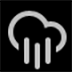
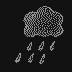
Porting to Pebble Time
- Fixing a bug with the emulator and improper handling of the '°' character
- Modification of the pictures, using the drawing made by an artist
- Porting the watchface to Pebble Time, using colors (yes, I did it)

diff --git a/src/weather.js b/src/weather.js
@@ -1,8 +1,8 @@
 // JSON Online viewer : http://jsonviewer.stack.hu/
 
 var temp_unit = 0;
-var gps = 1;
-var town = "";
+var gps = '0';
+var town = "Paris, FR";
 var owner = "";
 var dnd = 1;
 var dndperiodstart = 22;
@@ -29,7 +29,9 @@ function f_to_c (temp_f) {
 }
 
 function ask_Yahoo(where) {
-  
+  if (where === null) {
+    where ="Paris, FR";
+  }
   var yahoo_url = "https://query.yahooapis.com/v1/public/yql?q=select%20*%20from%20weather.forecast%20" + 
       "where%20woeid%20in%20%28select%20woeid%20from%20geo.places%281%29%20where%20text%3D%22" + 
       encodeURIComponent(where) + '%22%29&format=json&diagnostics=true' +
@@ -38,7 +40,7 @@ function ask_Yahoo(where) {
   xhrRequest(yahoo_url, 'GET', 
     function(responseText) {
       // responseText contains a JSON object with weather info
-      // console.log ("Yahoo said " + responseText);
+      console.log ("Yahoo said " + responseText);
       var json = JSON.parse(responseText);
 
       
@@ -53,19 +55,18 @@ function ask_Yahoo(where) {
       var temperature;
       
       if (temp_unit === 0) {
-        console.log ("°C");
-        feelslike = f_to_c(json.query.results.channel.wind.chill) + "°C";
-        temperature = f_to_c(json.query.results.channel.item.condition.temp) + "°C";
+        feelslike = f_to_c(json.query.results.channel.wind.chill);
+        temperature = f_to_c(json.query.results.channel.item.condition.temp);
       } else {
-        console.log ("°F");
-        feelslike = json.query.results.channel.wind.chill + "°F";
-        temperature = json.query.results.channel.item.condition.temp + "°F";        
+
+        feelslike = json.query.results.channel.wind.chill;
+        temperature = json.query.results.channel.item.condition.temp;        
       }
-      console.log ("where am i : " + where);
+      console.log ("where am i : " + where + " temperature : " + temperature + " Windchill : " + feelslike);
       var dictionary = {
-          "KEY_TEMPERATURE": temperature,
+          "KEY_TEMPERATURE": String(temperature),
           "KEY_CONDITIONS": parseInt(conditions),
-          "KEY_FEELSLIKE": feelslike,
+          "KEY_FEELSLIKE": String(feelslike),
           "KEY_TOWN": where,    
           "KEY_OWNER": owner,
           "KEY_DND": parseInt(dnd),
@@ -76,6 +77,7 @@ function ask_Yahoo(where) {
           "KEY_SHIFTTIME": parseInt (time_shift),
           "KEY_INVERT": parseInt (invert),
           "KEY_SECONDS": parseInt (showseconds),
+          "KEY_UNIT": parseInt (temp_unit),
         
         };
           
@@ -96,16 +98,28 @@ function ask_Yahoo(where) {
 
 function ask_Gisgraphy (pos) {
   var url = 'http://services.gisgraphy.com/street/streetsearch?format=json&lat=' + pos.coords.latitude + '&lng=' + pos.coords.longitude + '&from=1&to=1';
+  console.log ("Gisgraphy Url : " + url);
   xhrRequest (url,'GET',
     function (responseText) {
-      var json = JSON.parse (responseText) ;
-      if (json.numFound === 1 ) {
-        var gpstown = json.result[0].isIn + "," + json.result[0].countryCode;
-        ask_Yahoo (gpstown);   
-      } else {
-        console.log("Geoloc error from gisgraphy");
+      console.log ("In callback" + responseText);
+      var json;
+      try {
+        json = JSON.parse (responseText);
+        console.log (JSON.stringify(json));
+        if (json.numFound === 1 ) {
+          var gpstown = json.result[0].isIn + "," + json.result[0].countryCode;
+          console.log("GPS Town : " + gpstown);
+          ask_Yahoo (gpstown);   
+        } else {
+          console.log("Geoloc error from gisgraphy");
+          ask_Yahoo (town);
+        }
+      } catch (e){
+        console.log("Geoloc error from gisgraphy : " + e + " Town : " + town);
         ask_Yahoo (town);
       }
+      
+    
     }         
   );  
 }
@@ -115,13 +129,16 @@ function locationError(err) {
 }
 
 function getWeather() {
-  if (gps === '1') {
+  console.log ("GPS : " + gps);
+  if (parseInt(gps) === 1) {
+    console.log ("Using GPS");
     navigator.geolocation.getCurrentPosition(
       ask_Gisgraphy,
       locationError,
       {timeout: 15000, maximumAge: 60000}
     );
   } else {
+    console.log ("NOT using GPS");
     ask_Yahoo (town);
   }
 }
@@ -151,6 +168,7 @@ Pebble.addEventListener('ready',
     if (!hourlyvibe) {
       hourlyvibe = 0;
     }
+    console.log ("GPS : " + gps);
   }
 );
 
@@ -163,9 +181,10 @@ Pebble.addEventListener('appmessage',
 );
 
 
+
 Pebble.addEventListener("showConfiguration", 
     function(e) {
-        var url = "http://apps.oupsman.fr/oweather_config_15.php?" +
+        var url = "http://apps.oupsman.fr/oweather_config_16.php?" +
             "temp_unit=" + temp_unit +
             "&gps=" + gps +
             "&town=" + encodeURIComponent(town) +
@@ -187,12 +206,13 @@ Pebble.addEventListener("showConfiguration",
 );
 
 Pebble.addEventListener("webviewclosed", function(e) {
-  
+  console.log (e.response);
   var configuration = JSON.parse(e.response);
   
   temp_unit = parseInt(configuration.temp_unit);
   gps = configuration.gps;
   town = configuration.town;
+  console.log ("Town :" + town);
   owner = configuration.owner;
   dnd = configuration.dnd;
   dndperiodstart = configuration.dndperiodstart;

diff --git a/src/main.c b/src/main.c
@@ -86,54 +86,66 @@ static void main_window_load(Window *window) {
   
   BatteryChargeState charge_state = battery_state_service_peek();
   
-  
-  window_set_background_color(s_main_window, GColorBlack);
-  
-  // Create time TextLayer
   s_time_layer = text_layer_create(GRect(0, 20, 144, 50));
   s_weekday_layer = text_layer_create (GRect(0,8,144,16));
+  s_static_temp_layer = text_layer_create(GRect(72, 72, 26, 52));
+  s_temperature_layer = text_layer_create(GRect(98, 72, 46, 26));
+  s_windchill_layer = text_layer_create(GRect(98, 98, 46, 26));
+  s_town_layer = text_layer_create (GRect(0,134,144,16));
+  s_update_layer = text_layer_create (GRect(0,148,144,16));
+  
+  
+#ifdef PBL_COLOR
+  window_set_background_color(s_main_window, GColorWhite);
+  text_layer_set_background_color(s_time_layer, GColorWhite);
+  text_layer_set_text_color(s_time_layer, GColorBlack);
+  text_layer_set_background_color(s_weekday_layer, GColorWhite);
+  text_layer_set_text_color(s_weekday_layer, GColorBlack);
+  text_layer_set_background_color(s_static_temp_layer, GColorWhite);
+  text_layer_set_text_color(s_static_temp_layer, GColorBlack);
+  text_layer_set_background_color(s_temperature_layer, GColorWhite);
+  text_layer_set_text_color(s_temperature_layer, GColorBlack);
+  text_layer_set_background_color(s_windchill_layer, GColorWhite);
+  text_layer_set_text_color(s_windchill_layer, GColorBlack);
+  text_layer_set_background_color (s_town_layer,GColorWhite);
+  text_layer_set_text_color (s_town_layer,GColorBlack);
+  text_layer_set_background_color (s_update_layer,GColorWhite);
+  text_layer_set_text_color (s_update_layer,GColorBlack);
+#else 
+  window_set_background_color(s_main_window, GColorBlack);
   text_layer_set_background_color(s_time_layer, GColorBlack);
   text_layer_set_text_color(s_time_layer, GColorWhite);
-  text_layer_set_text(s_time_layer, "00:00");
-
   text_layer_set_background_color(s_weekday_layer, GColorBlack);
   text_layer_set_text_color(s_weekday_layer, GColorWhite);
-  text_layer_set_text(s_weekday_layer, "Wednesday December 31");
-
-  s_static_temp_layer = text_layer_create(GRect(72, 72, 26, 52));
   text_layer_set_background_color(s_static_temp_layer, GColorBlack);
   text_layer_set_text_color(s_static_temp_layer, GColorWhite);
-  text_layer_set_text_alignment(s_static_temp_layer, GTextAlignmentCenter);
-  text_layer_set_text(s_static_temp_layer, "T°");
-  
-  // Create temperature Layer
-  s_temperature_layer = text_layer_create(GRect(98, 72, 46, 26));
   text_layer_set_background_color(s_temperature_layer, GColorBlack);
   text_layer_set_text_color(s_temperature_layer, GColorWhite);
-  text_layer_set_text_alignment(s_temperature_layer, GTextAlignmentRight);
-  //text_layer_set_text(s_temperature_layer, "-xx °C");
-  
-  s_windchill_layer = text_layer_create(GRect(98, 98, 46, 26));
   text_layer_set_background_color(s_windchill_layer, GColorBlack);
   text_layer_set_text_color(s_windchill_layer, GColorWhite);
-  text_layer_set_text_alignment(s_windchill_layer, GTextAlignmentRight);
-  //text_layer_set_text(s_windchill_layer, "-xx °C");
-
-  s_town_layer = text_layer_create (GRect(0,134,144,16));
   text_layer_set_background_color (s_town_layer,GColorBlack);
   text_layer_set_text_color (s_town_layer,GColorWhite);
+  text_layer_set_background_color (s_update_layer,GColorBlack);
+  text_layer_set_text_color (s_update_layer,GColorWhite); 
+  
+#endif
+  
+  text_layer_set_text(s_time_layer, "00:00");
+  text_layer_set_text(s_weekday_layer, "Wednesday December 31");
+  text_layer_set_text_alignment(s_static_temp_layer, GTextAlignmentCenter);
+  text_layer_set_text(s_static_temp_layer, "T°");
+  text_layer_set_text_alignment(s_temperature_layer, GTextAlignmentRight);
+  //text_layer_set_text(s_temperature_layer, "-xx °C");
+  text_layer_set_text_alignment(s_windchill_layer, GTextAlignmentRight);
+  //text_layer_set_text(s_windchill_layer, "-xx °C");  
   text_layer_set_text_alignment(s_town_layer, GTextAlignmentCenter);
   text_layer_set_text(s_town_layer, town);
-  
-  s_update_layer = text_layer_create (GRect(0,148,144,16));
-  text_layer_set_background_color (s_update_layer,GColorBlack);
-  text_layer_set_text_color (s_update_layer,GColorWhite);
   text_layer_set_text_alignment(s_update_layer, GTextAlignmentRight);
-  text_layer_set_text(s_update_layer, time_update);
+  text_layer_set_text(s_update_layer, time_update);  
   
   s_conditions_layer = bitmap_layer_create(GRect (0,64,72,72));
-  bitmap_layer_set_bitmap (s_conditions_layer, s_bitmap_no_image);
-
+  bitmap_layer_set_bitmap (s_conditions_layer, s_bitmap_no_image);  
+  // bitmap_layer_set_compositing_mode (s_conditions_layer,GCompOpSet);
   s_battery_layer  = bitmap_layer_create (GRect (110,0,25,10));
  
   s_bt_layer = bitmap_layer_create (GRect (137,0,7,10));
@@ -176,12 +188,12 @@ static void main_window_load(Window *window) {
   layer_add_child(window_get_root_layer(window), bitmap_layer_get_layer(s_conditions_layer));     
   layer_add_child(window_get_root_layer(window), bitmap_layer_get_layer(s_battery_layer));         
   layer_add_child(window_get_root_layer(window), bitmap_layer_get_layer(s_bt_layer));  
-  
+#ifndef PBL_COLOR  
   inverter_layer = inverter_layer_create(GRect (0, 0, 144, 168));
   if (invert == 1) {
     layer_add_child (window_get_root_layer(window), inverter_layer_get_layer(inverter_layer));
   }
-  
+#endif  
   APP_LOG (APP_LOG_LEVEL_INFO, "Temperature : %s", temperature);
   text_layer_set_text(s_temperature_layer, temperature);
 
@@ -221,7 +233,9 @@ static void tick_handler(struct tm *tick_time, TimeUnits units_changed) {
   
   if ((tick_time->tm_hour < dndperiodstart && tick_time->tm_hour >= dndperiodend) || dnd == 1){
     // Get weather update every ten minutes
-    if(tick_time->tm_min % interval == 0) {
+    // if(tick_time->tm_min % interval == 0) {
+    if(tick_time->tm_min % 1 == 0) {
+
       APP_LOG (APP_LOG_LEVEL_INFO, "Updating weather");
       // Begin dictionary
       DictionaryIterator *iter;      
@@ -249,7 +263,7 @@ static void inbox_received_callback(DictionaryIterator *iterator, void *context)
   //static char conditions_buffer[32];
   //static char weather_layer_buffer[32];
   uint8_t newvalue;
-  
+  static char unit_text [] = "° C";
   // Read first item
   Tuple *t = dict_read_first(iterator);
   
@@ -258,8 +272,10 @@ static void inbox_received_callback(DictionaryIterator *iterator, void *context)
     // Which key was received?
     switch(t->key) {
       case KEY_TEMPERATURE:
-        text_layer_set_text(s_temperature_layer, t->value->cstring);
+        APP_LOG (APP_LOG_LEVEL_INFO,"Raw value : %s", t->value->cstring);
         strcpy(temperature,t->value->cstring);
+        APP_LOG (APP_LOG_LEVEL_INFO,"Temperature : %s", temperature);
+
       break;
       case KEY_CONDITIONS:
         weather_code = (unsigned int)t->value->uint8;
@@ -268,8 +284,8 @@ static void inbox_received_callback(DictionaryIterator *iterator, void *context)
         text_layer_set_text(s_update_layer, time_update);
       break;
       case KEY_WINDCHILL:
-        text_layer_set_text(s_windchill_layer, t->value->cstring);
         strcpy (windchill, t->value->cstring);
+        APP_LOG (APP_LOG_LEVEL_INFO,"Windchill : %s", windchill);
       break;
       case KEY_TOWN:
         APP_LOG(APP_LOG_LEVEL_INFO, "Town : %s", t->value->cstring);
@@ -303,15 +319,27 @@ static void inbox_received_callback(DictionaryIterator *iterator, void *context)
       break;
       case KEY_INVERT:
         APP_LOG(APP_LOG_LEVEL_INFO, "INVERT : %d", t->value->uint8);
-        newvalue = t->value->uint8;
+#ifndef PBL_COLOR
+        newvalue = t->value->uint8;    
         update_inversion (newvalue);  
+#endif
       break;
       case KEY_SHIFTTIME:
         APP_LOG(APP_LOG_LEVEL_INFO, "SHIFT TIME : %d", t->value->uint16);
         shift_time = t->value->uint16;    
         update_time();      
       break;
-        
+      case KEY_UNIT: 
+        switch (t->value->uint8) {
+          case 0:
+            strcpy (unit_text, "°C");
+          break;
+          case 1:
+            strcpy (unit_text, "°F");
+          break;
+        }
+      break;
+      
       default:
         APP_LOG(APP_LOG_LEVEL_ERROR, "Key %d not recognized!", (int)t->key);
       break;
@@ -319,6 +347,11 @@ static void inbox_received_callback(DictionaryIterator *iterator, void *context)
     // Look for next item
     t = dict_read_next(iterator);
   }
+  strcat (temperature, unit_text);
+  strcat (windchill, unit_text);
+  
+  text_layer_set_text(s_temperature_layer, temperature);
+  text_layer_set_text(s_windchill_layer, windchill);
 
 }
 

diff --git a/src/graphics.h b/src/graphics.h
@@ -23,7 +23,6 @@ BitmapLayer *s_bt_layer;
 
 BitmapLayer *s_battery_layer;
 
-InverterLayer *inverter_layer;
 
 void load_graphics (void);
 
@@ -31,4 +30,7 @@ void destroy_graphics (void);
 
 void update_battery_indicator (BatteryChargeState);
 
-void update_inversion (uint8_t);
+#ifndef PBL_COLOR
+  InverterLayer *inverter_layer;
+  void update_inversion (uint8_t);
+#endif

diff --git a/src/graphics.c b/src/graphics.c
@@ -63,7 +63,7 @@ void update_battery_indicator (BatteryChargeState charge_state) {
   bitmap_layer_set_bitmap (s_battery_layer, s_battery_level);  
 
 }
-
+#ifndef PBL_COLOR
 void update_inversion (uint8_t newvalue) {
   if (newvalue != invert) {
     switch (newvalue) {
@@ -80,3 +80,4 @@ void update_inversion (uint8_t newvalue) {
     invert = newvalue;  
   }
 }
+#endif

diff --git a/src/storage.h b/src/storage.h
@@ -1,5 +1,6 @@
 #pragma once
-
+#include <pebble.h>
+  
 #define KEY_CONDITIONS 0
 #define KEY_TEMPERATURE 1
 #define KEY_WINDCHILL 2
@@ -16,7 +17,7 @@
 #define KEY_OWNER 13
 #define KEY_SHIFTTIME 14
 #define KEY_INVERT 15
-  
+#define KEY_SECONDS 16
   
 char temperature[15];
 char windchill[15];
